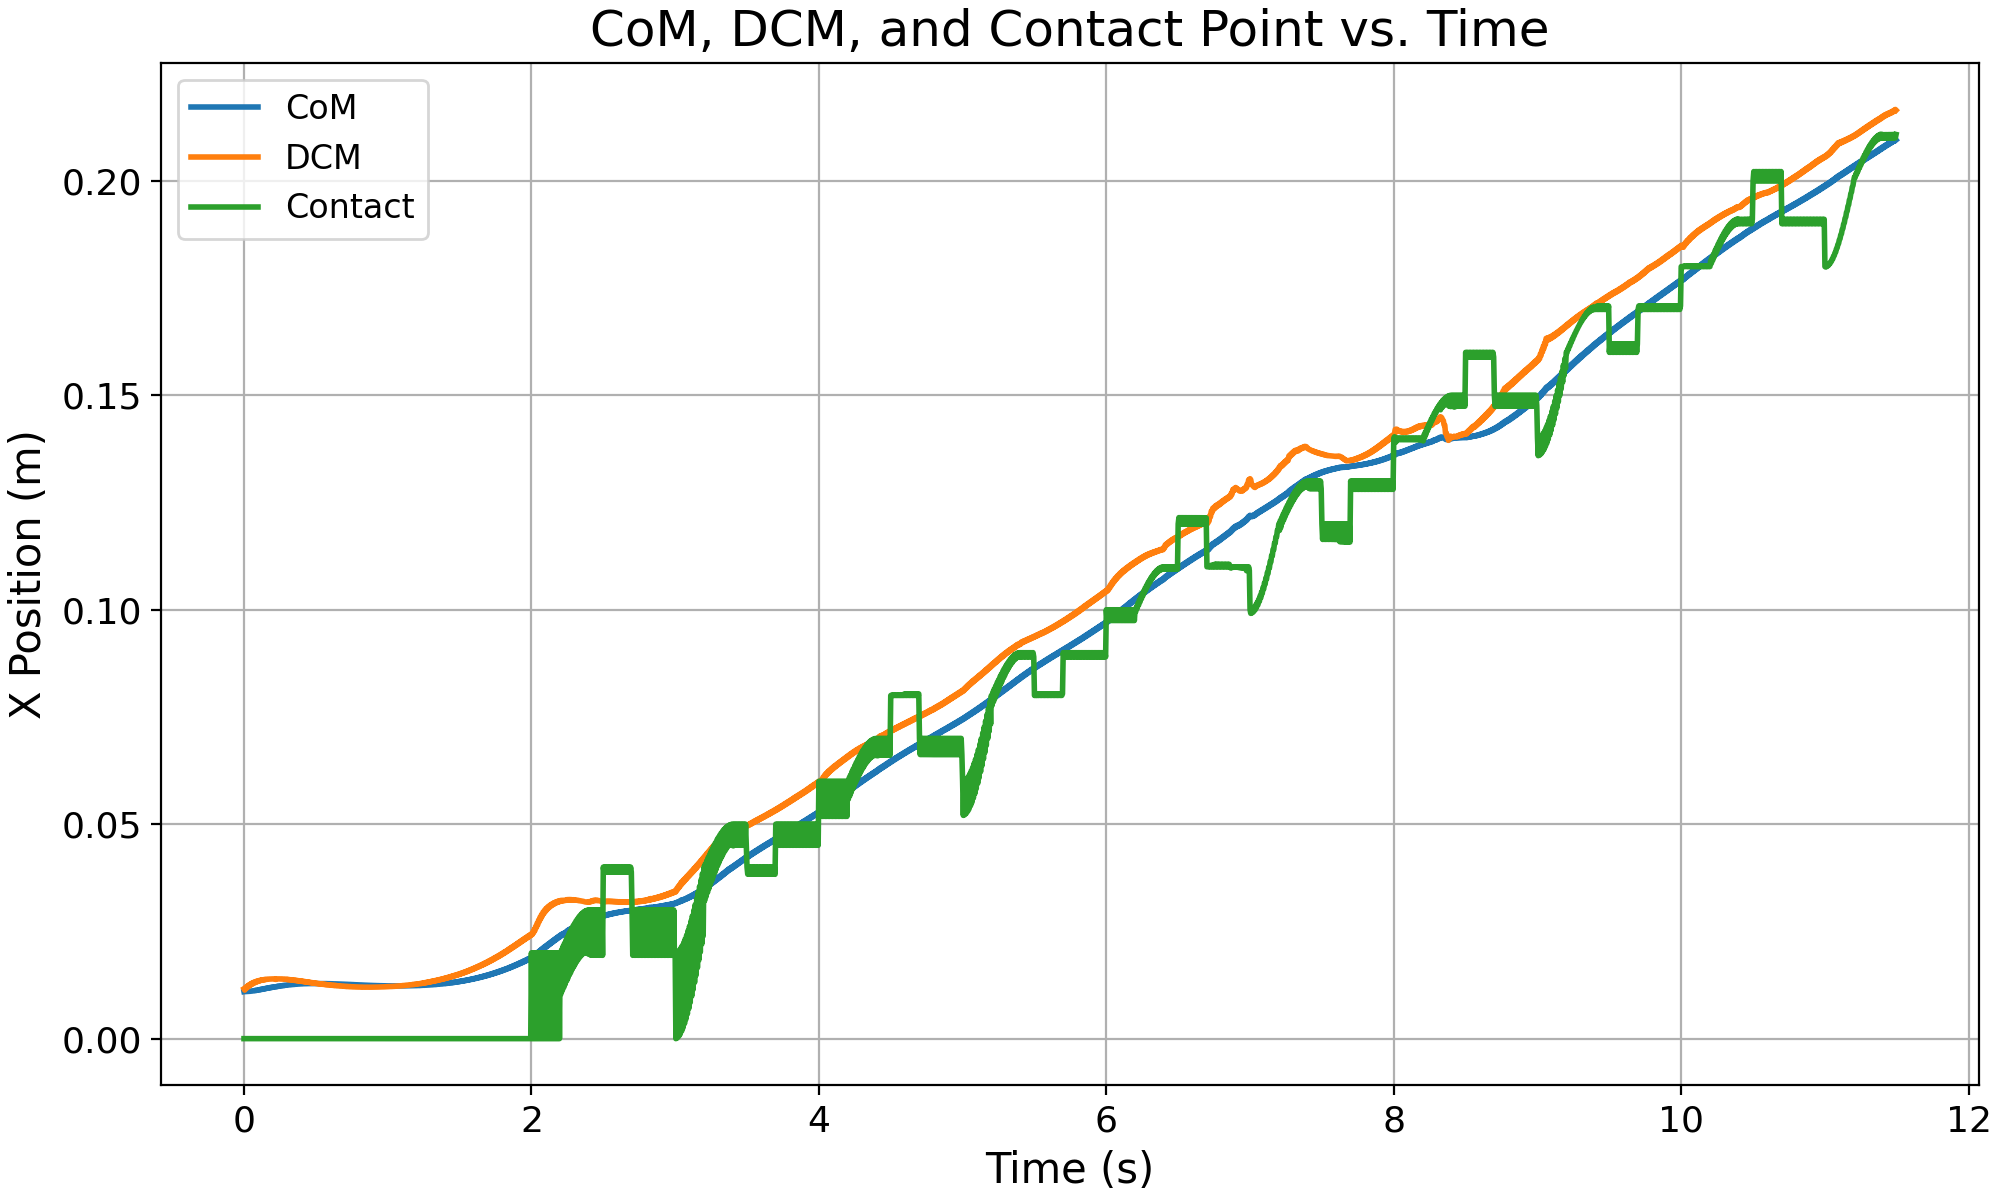
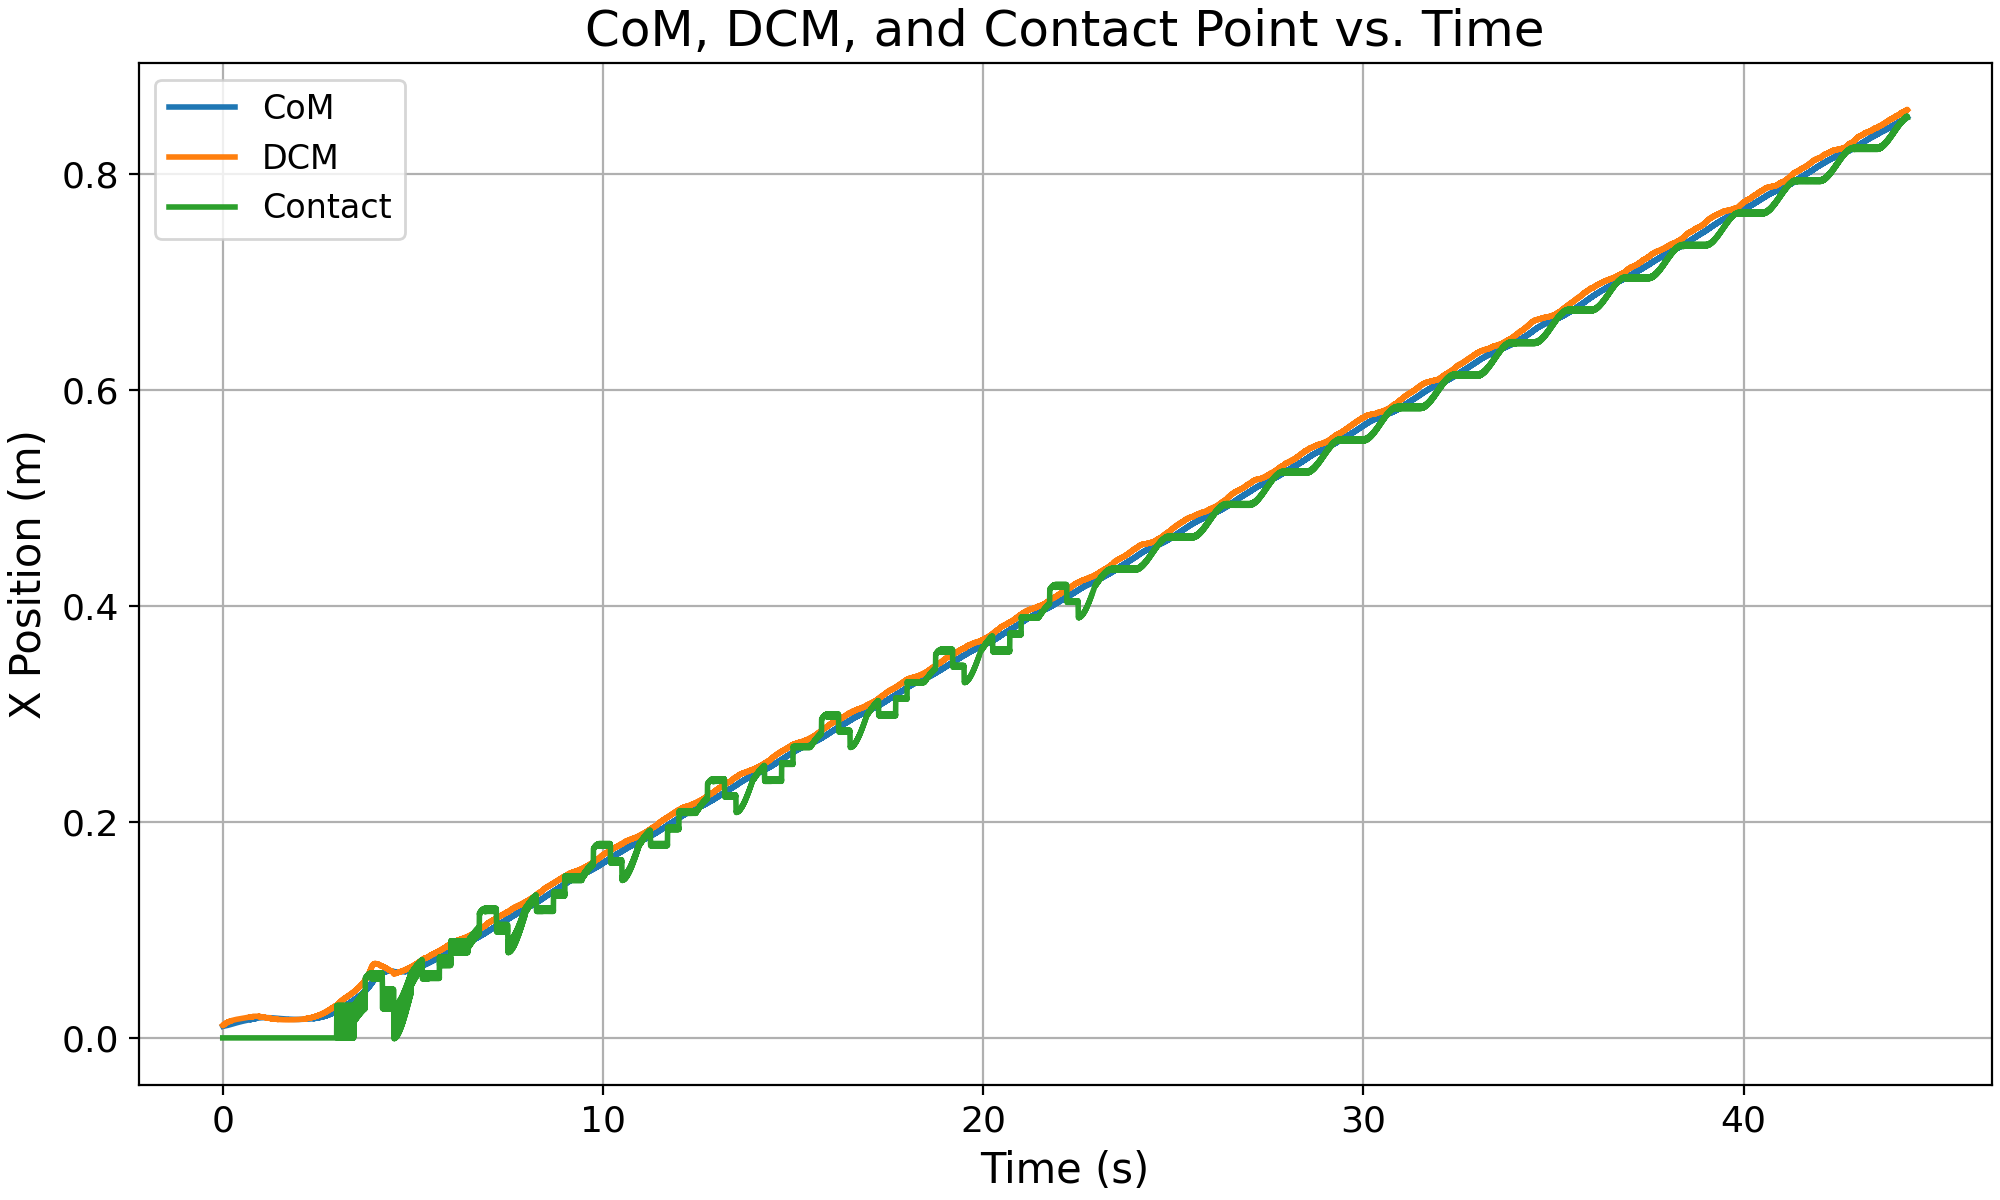
30 steps

diff --git a/lab3/inverse_dynamics.py b/lab3/inverse_dynamics.py
@@ -49,16 +49,16 @@ class InverseDynamics:
             'com'  : 3.0,
             'torso': 0.5,
             'base' : 0.0,     # important: don't fight torso / don't trust base
-            'joints': 1e-3
+            'joints': 0.5
         }
 
         pos_gains = {
-            'lfoot': 60.0,
-            'rfoot': 60.0,
+            'lfoot': 30.0,
+            'rfoot': 30.0,
             'com'  : 25.0,
             'torso': 30.0,
             'base' : 0.0,
-            'joints': 3.0
+            'joints': 10.0
         }
 
         vel_gains = {
@@ -67,7 +67,7 @@ class InverseDynamics:
             'com'  : 18.0,    # damping to kill overshoot/drift
             'torso': 10.0,
             'base' : 0.0,
-            'joints': 0.5
+            'joints': 10.0
         }
 
                 

diff --git a/lab3/simulation2.py b/lab3/simulation2.py
@@ -172,8 +172,8 @@ class Hrp4Controller(dart.gui.osg.RealTimeWorldNode):
             'g': 9.81,
             'h': 0.26,            # This will be dynamically overwritten below
             'foot_size': 0.06,    # 0.10 gives the MPC sliding box the 1cm grease it needs
-            'step_height': 0.02,  # 2cm clearance for flat ground [cite: 23]
-            'ss_duration': 40,
+            'step_height': 0.03,  # 2cm clearance for flat ground [cite: 23]
+            'ss_duration': 90,
             'ds_duration': 60,
             'world_time_step': world.getTimeStep(),
             'first_swing': 'rfoot',
